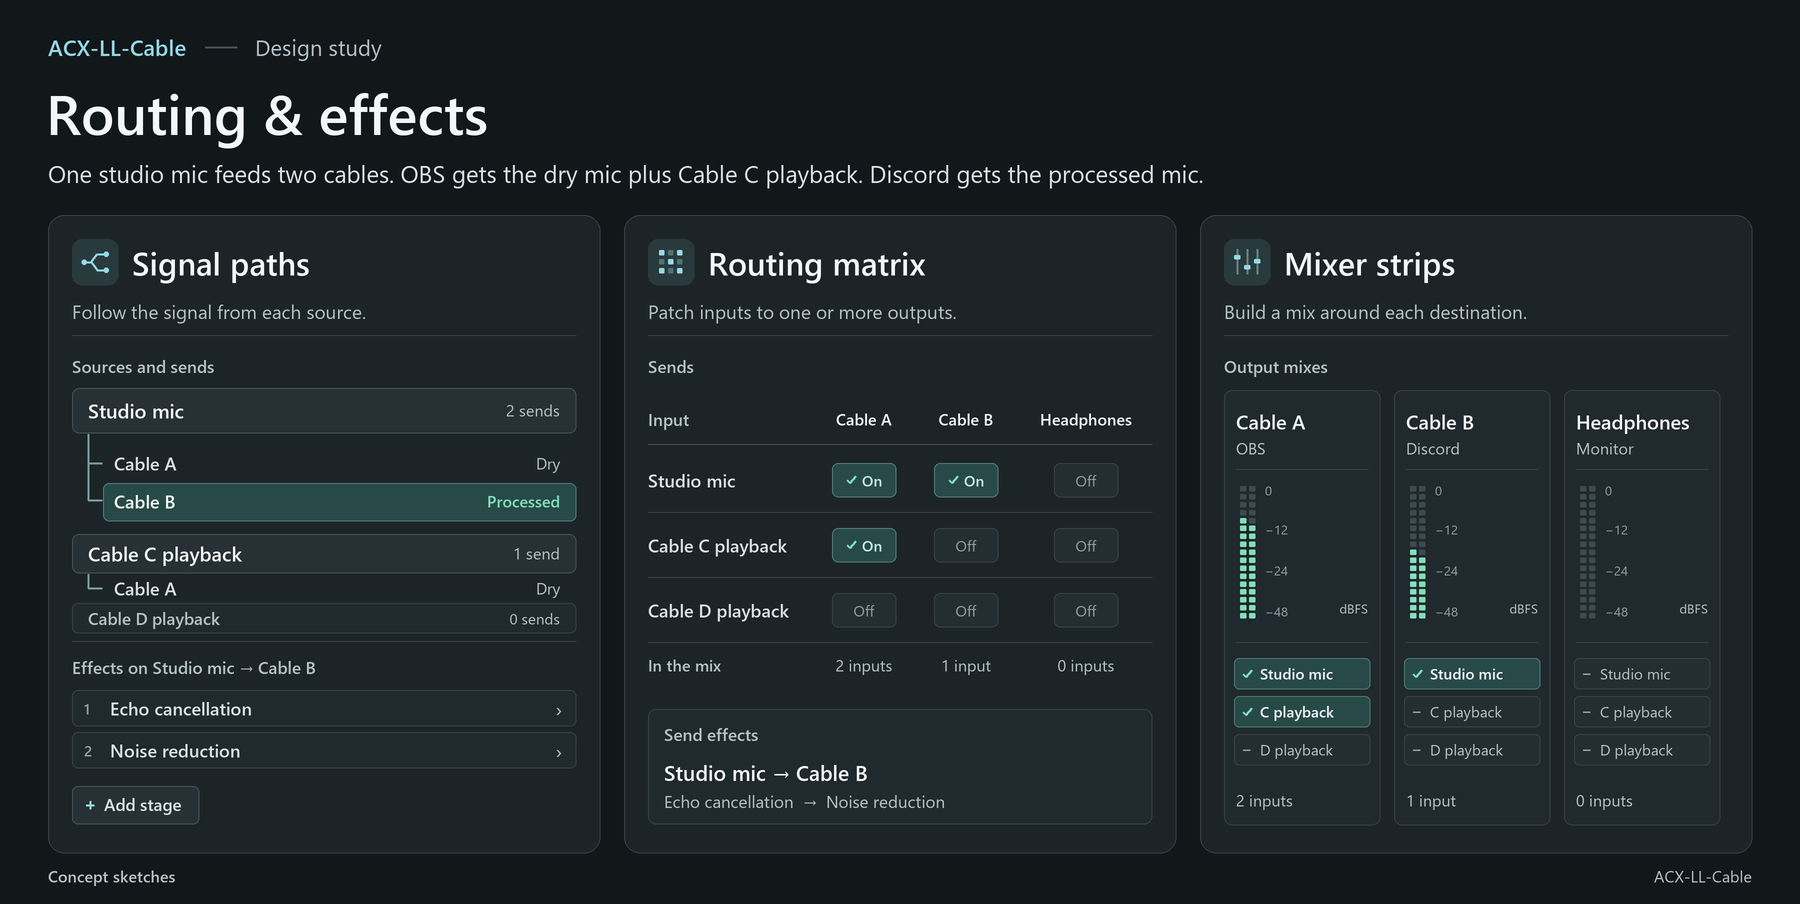
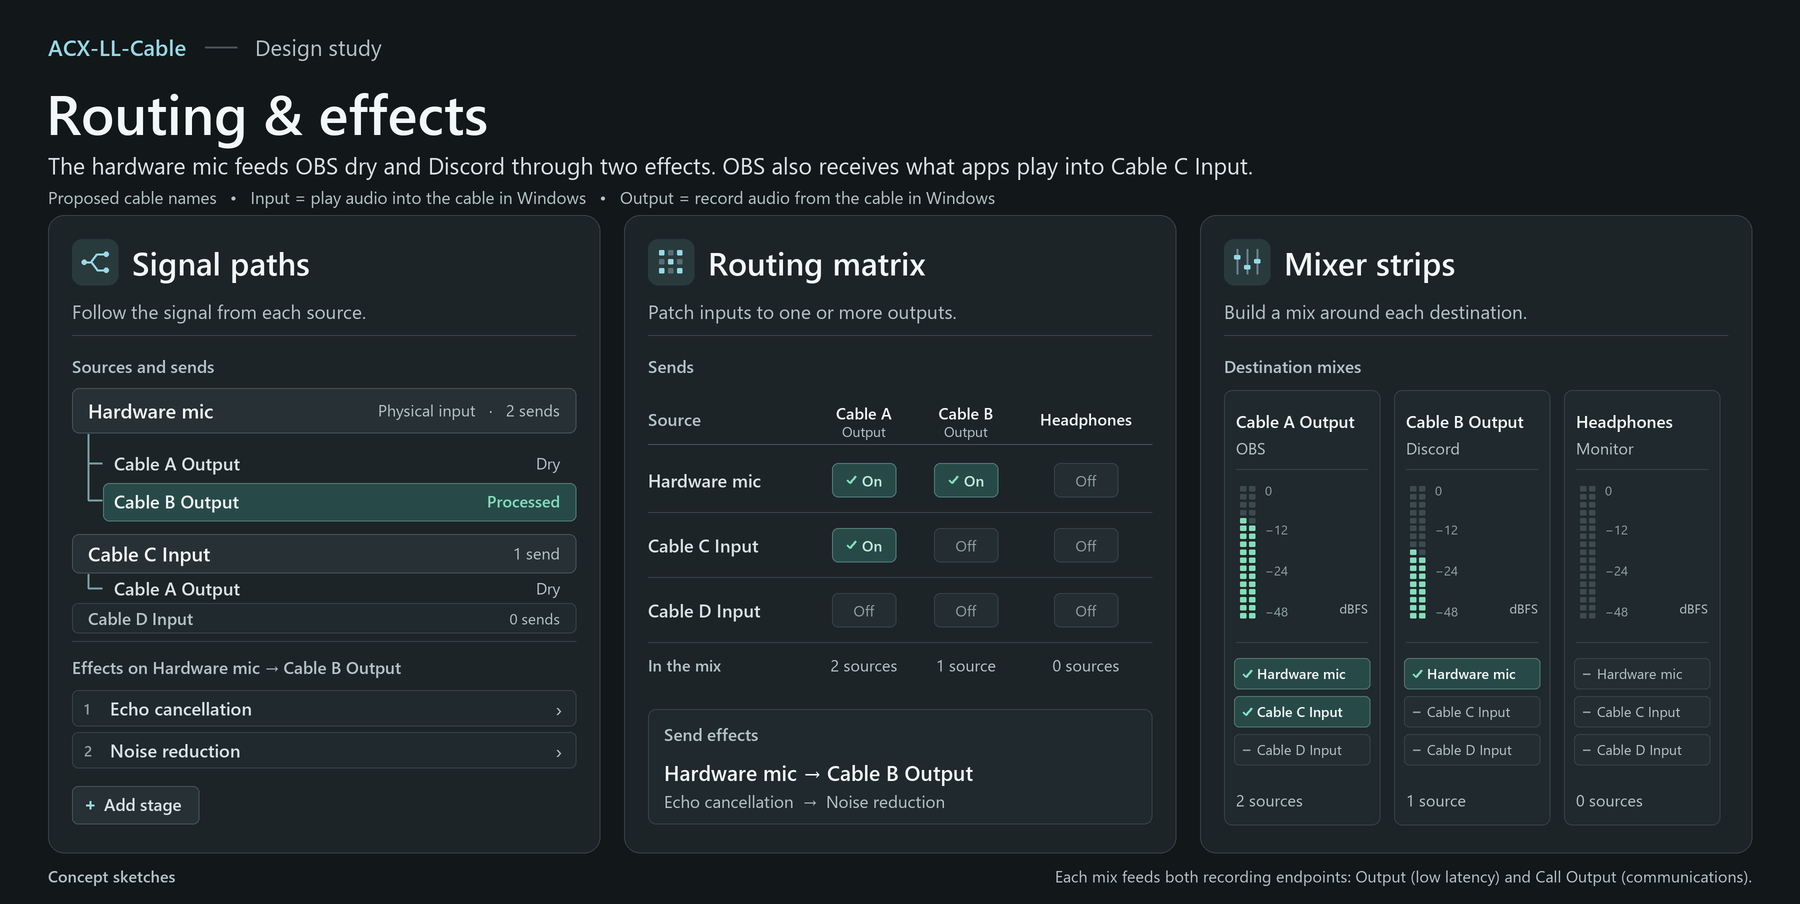
Distinguish physical microphones and cable ends in the routing preview

diff --git a/crates/nf-gui/examples/routing_preview/interaction_tests.rs b/crates/nf-gui/examples/routing_preview/interaction_tests.rs
@@ -50,16 +50,16 @@ fn dispatch(pump: &mut PreviewPump, id: NodeId, event: EventId, payload: EventPa
 fn two_cables_can_mix_into_a_third_and_split_to_a_second_destination() {
     let mut pump = Pump::new(RecordingRuntime::default());
     pump.mount_view(View::component::<Preview>(Concept::Matrix)).unwrap();
-    click(&mut pump, "Disconnect Studio mic from Cable A");
-    click(&mut pump, "Send Cable D playback to Cable A");
-    button(&pump, "Disconnect Cable C playback from Cable A");
-    button(&pump, "Disconnect Cable D playback from Cable A");
-    click(&mut pump, "Send Cable C playback to Cable B");
-    click(&mut pump, "Edit processing for the Cable C playback to Cable B send");
+    click(&mut pump, "Disconnect Hardware mic from Cable A Output");
+    click(&mut pump, "Send Cable D Input to Cable A Output");
+    button(&pump, "Disconnect Cable C Input from Cable A Output");
+    button(&pump, "Disconnect Cable D Input from Cable A Output");
+    click(&mut pump, "Send Cable C Input to Cable B Output");
+    click(&mut pump, "Edit processing for the Cable C Input to Cable B Output send");
     click(&mut pump, "+ Add stage");
     click(&mut pump, "Add Equalizer");
     button(&pump, "Edit stage 1, Equalizer");
-    click(&mut pump, "Edit processing for the Cable C playback to Cable A send");
+    click(&mut pump, "Edit processing for the Cable C Input to Cable A Output send");
     assert!(nodes(&pump).any(|n| text_is(&pump, n, PropertyId::TextBlockText, "Dry signal · no stages")));
 }
 
@@ -67,9 +67,9 @@ fn two_cables_can_mix_into_a_third_and_split_to_a_second_destination() {
 fn a_new_send_and_its_pan_stage_follow_the_user_between_layouts() {
     let mut pump = Pump::new(RecordingRuntime::default());
     pump.mount_view(View::component::<Preview>(Concept::Matrix)).unwrap();
-    click(&mut pump, "Send Studio mic to Headphones");
-    button(&pump, "Disconnect Studio mic from Headphones");
-    click(&mut pump, "Edit processing for the Studio mic to Headphones send");
+    click(&mut pump, "Send Hardware mic to Headphones");
+    button(&pump, "Disconnect Hardware mic from Headphones");
+    click(&mut pump, "Edit processing for the Hardware mic to Headphones send");
     click(&mut pump, "+ Add stage");
     click(&mut pump, "Add Stereo pan");
     button(&pump, "Edit stage 1, Stereo pan");
@@ -78,8 +78,8 @@ fn a_new_send_and_its_pan_stage_follow_the_user_between_layouts() {
         click(&mut pump, view);
         button(&pump, "Edit stage 1, Stereo pan");
     }
-    click(&mut pump, "Disconnect Studio mic from Headphones");
-    button(&pump, "Send Studio mic to Headphones");
+    click(&mut pump, "Disconnect Hardware mic from Headphones");
+    button(&pump, "Send Hardware mic to Headphones");
 }
 
 #[test]
@@ -108,9 +108,9 @@ fn a_clap_voice_effect_can_be_reordered_tuned_bypassed_and_removed_from_one_bran
     dispatch(&mut pump, slider, EventId::SliderValueChanged, EventPayload::F64(-7.0));
     assert!(nodes(&pump).any(|n| text_is(&pump, n, PropertyId::TextBlockText, "Pitch  ·  -7 semitones")));
 
-    click(&mut pump, "Edit processing for the Studio mic to Cable A send");
+    click(&mut pump, "Edit processing for the Hardware mic to Cable A Output send");
     assert!(nodes(&pump).any(|n| text_is(&pump, n, PropertyId::TextBlockText, "Dry signal · no stages")));
-    click(&mut pump, "Edit processing for the Studio mic to Cable B send");
+    click(&mut pump, "Edit processing for the Hardware mic to Cable B Output send");
     click(&mut pump, "Edit stage 2, Voice tone");
     button(&pump, "Enable");
     assert!(nodes(&pump).any(|n| text_is(&pump, n, PropertyId::TextBlockText, "Pitch  ·  -7 semitones")));

diff --git a/crates/nf-gui/examples/routing_preview/strips.rs b/crates/nf-gui/examples/routing_preview/strips.rs
@@ -12,11 +12,7 @@ pub(super) fn mixer(app: &Preview, cx: &ViewContext<Preview>) -> View {
             .enumerate()
             .map(|(d, _)| (d, Border::new().grid_column(d as i32).content(output_strip(app, cx, d, sends_to == Some(d))))),
     );
-    let mut body = vec![
-        heading("Output mixes").into(),
-        muted("Select an input on each output you want it to reach. Selected inputs play together.").into(),
-        strips,
-    ];
+    let mut body = vec![heading("Destination mixes").into(), muted("Choose the sources to mix at each destination.").into(), strips];
     if let Some(d) = sends_to {
         let sends: Vec<View> = SOURCES
             .iter()
@@ -26,7 +22,7 @@ pub(super) fn mixer(app: &Preview, cx: &ViewContext<Preview>) -> View {
             .collect();
         body.push(card(column(vec![
             heading(&format!("Send effects to {}", DESTS[d])).into(),
-            if sends.is_empty() { muted("Select an input on this output to edit its send effects.").into() } else { row(sends) },
+            if sends.is_empty() { muted("Connect a source to this destination to edit its send effects.").into() } else { row(sends) },
         ])));
     }
     let sources = SOURCES
@@ -34,7 +30,7 @@ pub(super) fn mixer(app: &Preview, cx: &ViewContext<Preview>) -> View {
         .enumerate()
         .map(|(s, name)| action(name, cx.callback(move |()| Msg::Select(Scope::Source(s))), app.scene.scope == Scope::Source(s)))
         .collect();
-    body.push(card(column(vec![heading("Shared input effects").into(), row(sources)])));
+    body.push(card(column(vec![heading("Shared source effects").into(), row(sources)])));
     column(body)
 }
 
@@ -43,12 +39,17 @@ fn output_strip(app: &Preview, cx: &ViewContext<Preview>, d: usize, selected: bo
     let signal = if inputs == 0 { 0.0 } else { [0.78, 0.69, 0.63][d] };
     let peak = if inputs == 0 { "−∞" } else { ["−13.2", "−18.6", "−22.2"][d] };
     let count = match inputs {
-        0 => "No inputs".to_owned(),
-        1 => "1 input".to_owned(),
-        n => format!("{n} inputs"),
+        0 => "No sources".to_owned(),
+        1 => "1 source".to_owned(),
+        n => format!("{n} sources"),
     };
     let mut body = vec![
-        TextBlock::new().text(DESTS[d]).font_size(16.0).font_weight(FontWeight::SEMI_BOLD).tooltip(DEST_INFO[d]),
+        TextBlock::new()
+            .text(DESTS[d])
+            .font_size(16.0)
+            .font_weight(FontWeight::SEMI_BOLD)
+            .text_wrapping(TextWrapping::Wrap)
+            .tooltip(DEST_INFO[d]),
         column(vec![
             meter(signal),
             TextBlock::new().text(format!("{peak} dBFS")).font_size(16.0).automation_name(format!("{} peak, {peak} dBFS", DESTS[d])).into(),
@@ -68,7 +69,7 @@ fn output_strip(app: &Preview, cx: &ViewContext<Preview>, d: usize, selected: bo
                 })
                 .horizontal_alignment(HorizontalAlignment::Stretch)
                 .automation_name(format!("Send {name} to {}", DESTS[d]))
-                .content(TextBlock::new().text(*name).font_size(12.0).text_trimming(TextTrimming::CharacterEllipsis))
+                .content(TextBlock::new().text(*name).font_size(12.0).text_wrapping(TextWrapping::Wrap))
                 .tooltip(format!("{} → {}", SOURCE_INFO[s], DEST_INFO[d])),
         );
     }

diff --git a/crates/nf-gui/examples/routing_preview/paths.rs b/crates/nf-gui/examples/routing_preview/paths.rs
@@ -5,7 +5,7 @@ pub(super) fn paths(app: &Preview, cx: &ViewContext<Preview>) -> View {
     let sources = StackPanel::new().spacing(8.0).keyed_children((0..SOURCES.len()).map(|s| (s, source_card(app, cx, s))));
     let mixes = Grid::new().columns([GridLength::STAR; 3]).column_spacing(6.0).keyed_children(DESTS.iter().enumerate().map(|(d, dest)| {
         let inputs = (0..SOURCES.len()).filter(|&s| app.scene.connected(s, d)).count();
-        let count = if inputs == 1 { "1 input".to_owned() } else { format!("{inputs} inputs") };
+        let count = if inputs == 1 { "1 source".to_owned() } else { format!("{inputs} sources") };
         let scope = Scope::Output(d);
         let button = Button::new()
             .style(if app.scene.scope == scope { ButtonStyle::Accent } else { ButtonStyle::Default })
@@ -13,9 +13,10 @@ pub(super) fn paths(app: &Preview, cx: &ViewContext<Preview>) -> View {
             .horizontal_alignment(HorizontalAlignment::Stretch)
             .automation_name(format!("Edit {dest} mix with {count}"))
             .on_click(cx.callback(move |()| Msg::Select(scope)))
-            .content(
-                StackPanel::new().spacing(1.0).children((TextBlock::new().text(*dest).font_weight(FontWeight::SEMI_BOLD), small(&count))),
-            )
+            .content(StackPanel::new().spacing(1.0).children((
+                TextBlock::new().text(*dest).text_wrapping(TextWrapping::Wrap).font_weight(FontWeight::SEMI_BOLD),
+                small(&count),
+            )))
             .tooltip(DEST_INFO[d]);
         (d, button)
     }));
@@ -23,7 +24,7 @@ pub(super) fn paths(app: &Preview, cx: &ViewContext<Preview>) -> View {
         heading("Sources and sends").into(),
         muted("Select a source for shared processing, or a branch for effects on one send.").into(),
         sources,
-        heading("Output mixes").into(),
+        heading("Destination mixes").into(),
         mixes,
     ])
 }
@@ -75,7 +76,12 @@ fn source_card(app: &Preview, cx: &ViewContext<Preview>, s: usize) -> View {
                     .horizontal_alignment(HorizontalAlignment::Stretch)
                     .automation_name(&label)
                     .on_click(cx.callback(move |()| Msg::Send(s, d)))
-                    .content(TextBlock::new().text(format!("{} {dest}", if on { "✓" } else { "+" })).font_size(13.0))
+                    .content(
+                        TextBlock::new()
+                            .text(format!("{} {dest}", if on { "✓" } else { "+" }))
+                            .font_size(13.0)
+                            .text_wrapping(TextWrapping::Wrap),
+                    )
                     .tooltip(label);
                 (d, button)
             }));

diff --git a/crates/nf-gui/examples/routing_preview/scene.rs b/crates/nf-gui/examples/routing_preview/scene.rs
@@ -1,10 +1,11 @@
 //! In-memory signal graph for comparing the three editors against exactly the same session.
 use std::collections::BTreeMap;
 
-pub(super) const SOURCES: [&str; 3] = ["Studio mic", "Cable C playback", "Cable D playback"];
-pub(super) const SOURCE_INFO: [&str; 3] = ["Microphone input", "What apps play to Cable C", "What apps play to Cable D"];
-pub(super) const DESTS: [&str; 3] = ["Cable A", "Cable B", "Headphones"];
-pub(super) const DEST_INFO: [&str; 3] = ["OBS recording", "Discord microphone", "Stereo monitor"];
+pub(super) const SOURCES: [&str; 3] = ["Hardware mic", "Cable C Input", "Cable D Input"];
+pub(super) const SOURCE_INFO: [&str; 3] =
+    ["Example physical microphone", "Audio apps play into Speakers (ACX-LL-Cable C)", "Audio apps play into Speakers (ACX-LL-Cable D)"];
+pub(super) const DESTS: [&str; 3] = ["Cable A Output", "Cable B Output", "Headphones"];
+pub(super) const DEST_INFO: [&str; 3] = ["Recorded by OBS", "Recorded by Discord", "Physical listening device"];
 
 #[derive(Clone, Copy, PartialEq, Eq, PartialOrd, Ord, Debug)]
 pub(super) enum Scope {
@@ -16,7 +17,7 @@ pub(super) enum Scope {
 impl Scope {
     pub(super) fn title(self) -> String {
         match self {
-            Self::Source(s) => format!("{} input", SOURCES[s]),
+            Self::Source(s) => SOURCES[s].to_owned(),
             Self::Send(s, d) => format!("{} → {}", SOURCES[s], DESTS[d]),
             Self::Output(d) => format!("{} mix", DESTS[d]),
         }
@@ -24,7 +25,7 @@ impl Scope {
 
     pub(super) fn description(self) -> &'static str {
         match self {
-            Self::Source(_) => "Shared input effects. Each send chooses where it takes the signal.",
+            Self::Source(_) => "Shared source effects. Each send chooses where it takes the signal.",
             Self::Send(_, _) => "Only this copy of the signal passes through these stages.",
             Self::Output(_) => "Runs after the incoming sends have been mixed.",
         }
@@ -231,7 +232,7 @@ impl Scene {
     }
 
     pub(super) fn taps(&self, s: usize) -> Vec<(Tap, String)> {
-        let mut options = vec![(Tap::Raw, "Original input (dry)".into()), (Tap::End, "After all input stages".into())];
+        let mut options = vec![(Tap::Raw, "Original source (dry)".into()), (Tap::End, "After all source stages".into())];
         options.extend(
             self.at(Scope::Source(s))
                 .iter()

diff --git a/crates/nf-gui/examples/routing_preview/routes.rs b/crates/nf-gui/examples/routing_preview/routes.rs
@@ -1,9 +1,9 @@
 use super::*;
 
 pub(super) fn matrix(app: &Preview, cx: &ViewContext<Preview>) -> View {
-    let mut cells = vec![small("Inputs / outputs").vertical_alignment(VerticalAlignment::Center).into()];
+    let mut cells = vec![small("Source ↓\nDestination →").vertical_alignment(VerticalAlignment::Center).into()];
     for (d, dest) in DESTS.iter().enumerate() {
-        let label = format!("Edit the {dest} output chain. {}", DEST_INFO[d]);
+        let label = format!("Edit the {dest} mix. {}", DEST_INFO[d]);
         cells.push(
             Button::new()
                 .style(if app.scene.scope == Scope::Output(d) { ButtonStyle::Default } else { ButtonStyle::Subtle })
@@ -11,7 +11,7 @@ pub(super) fn matrix(app: &Preview, cx: &ViewContext<Preview>) -> View {
                 .horizontal_alignment(HorizontalAlignment::Stretch)
                 .automation_name(&label)
                 .grid_column(d as i32 + 1)
-                .content(TextBlock::new().text(*dest).font_size(12.0))
+                .content(TextBlock::new().text(*dest).font_size(12.0).text_wrapping(TextWrapping::Wrap))
                 .tooltip(label),
         );
     }
@@ -52,7 +52,7 @@ pub(super) fn matrix(app: &Preview, cx: &ViewContext<Preview>) -> View {
     cells.push(small("In the mix").vertical_alignment(VerticalAlignment::Center).grid_row(footer_row).into());
     for (d, _) in DESTS.iter().enumerate() {
         let n = (0..SOURCES.len()).filter(|&s| app.scene.connected(s, d)).count();
-        let count = if n == 1 { "1 input".to_owned() } else { format!("{n} inputs") };
+        let count = if n == 1 { "1 source".to_owned() } else { format!("{n} sources") };
         cells.push(small(&count).horizontal_alignment(HorizontalAlignment::Center).grid_column(d as i32 + 1).grid_row(footer_row).into());
     }
     let table = Grid::new()
@@ -96,7 +96,7 @@ pub(super) fn matrix(app: &Preview, cx: &ViewContext<Preview>) -> View {
     };
     column(vec![
         heading("Routing table").into(),
-        muted("Switch on a send to route an input. Inputs in the same output column are mixed.").into(),
+        muted("Switch on a send to connect a source. Sources in the same destination column are mixed.").into(),
         card(table),
         card(column(vec![heading("Send effects").into(), sends])),
     ])

diff --git a/crates/nf-gui/examples/routing_preview/main.rs b/crates/nf-gui/examples/routing_preview/main.rs
@@ -169,7 +169,7 @@ impl Preview {
             .into_iter()
             .map(|(choice, label)| action(label, cx.callback(move |()| Msg::Concept(choice)), self.concept == choice))
             .collect());
-        column(vec![title_row, navigation])
+        column(vec![title_row, navigation, muted("Play audio into a Cable Input. Record from a Cable Output.").into()])
     }
 
     fn routing(&self, cx: &ViewContext<Self>) -> View {
@@ -184,7 +184,7 @@ impl Preview {
         let send = &self.scene.sends[s][d];
         let choices = self.scene.taps(s);
         let selected = choices.iter().position(|(tap, _)| *tap == send.tap);
-        let summary = selected.map_or("After all input stages", |i| choices[i].1.as_str());
+        let summary = selected.map_or("After all source stages", |i| choices[i].1.as_str());
         let action_label = format!("{}   ·   {summary}   ·   {:+} dB", if self.send_options { "▾  Send" } else { "▸  Send" }, send.gain_db);
         let button = Button::new()
             .style(ButtonStyle::Subtle)

diff --git a/crates/nf-gui/examples/routing_preview/editor.rs b/crates/nf-gui/examples/routing_preview/editor.rs
@@ -74,7 +74,7 @@ fn stage_row(stage: &Stage, index: usize, count: usize, selected: bool, cx: &Vie
     if selected {
         let parameter = if matches!(kind, Kind::Echo) {
             let sender = cx.sender();
-            let choices = ["Speakers (system playback)", "Headset playback", "Cable C playback"];
+            let choices = ["Speakers (system playback)", "Headset playback", SOURCES[1]];
             ComboBox::new()
                 .horizontal_alignment(HorizontalAlignment::Stretch)
                 .items_source(choices)

diff --git a/doc/design/gui.md b/doc/design/gui.md
@@ -10,10 +10,15 @@ The owner wants visible split and mix controls and a single ordered list for bui
 Reactor mockups are available for choosing the layout. The current settings window is documented below.
 [Compare the concepts](routing-preview.png). Run `cargo run -p nf-gui --example routing_preview` to try them.
 
-All three layouts edit one in-memory example. The studio mic feeds Cable A dry for OBS and Cable B through AEC and RNNoise
-for Discord. Cable C playback joins the mic on A at −9 dB. To try a two-cable mix,
-turn on **Cable D playback → Cable A** and turn off **Studio mic → Cable A**. Both C and D now feed A, and B keeps its own mic chain.
-The meters, devices and plugin catalog are examples.
+All three layouts edit one in-memory example. **Hardware mic** represents a physical microphone. It feeds **Cable A Output**
+dry for OBS and **Cable B Output** through AEC and RNNoise for Discord. Audio played into **Cable C Input** joins the mic
+on A at −9 dB. To try a two-cable mix, turn on **Cable D Input → Cable A Output** and turn off **Hardware mic → Cable A Output**.
+Both C and D now feed A. B keeps its own mic chain. The meters, devices and plugin catalog are examples.
+
+**Input** and **Output** name the two ends from the cable's perspective. Windows currently lists the playback end as **Speakers**
+and its recording ends as **Microphone** (low latency) and **Call Microphone** (communications). Both recording ends carry the
+same cable signal. A preview destination represents that signal. The recording app chooses the endpoint. **Source** and
+**destination** describe a pipeline connection, so a cable output used downstream keeps its Output name.
 
 - **Signal paths** shows where each source goes. Choose **Edit sends** on the source to connect another destination.
 - **Routing matrix** shows all source/destination pairs. Each active cell in a row is a copy, and each active cell in a column contributes to the mix.
